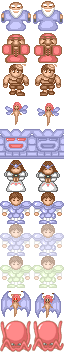
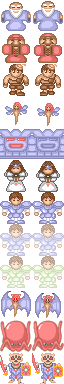
add skeletonknight npc for 10f

diff --git a/project/maps.js b/project/maps.js
@@ -127,6 +127,7 @@ var maps_90f36752_8815_4be8_b32b_d7fad1d0542e =
 	"278": {"cls":"enemys","id":"devilKnight"},
 	"279": {"cls":"enemys","id":"grayPriest"},
 	"300": {"cls":"terrains","id":"ground"},
+	"301": {"cls":"npcs","id":"N301"},
 	"305": {"cls":"terrains","id":"grass"},
 	"308": {"cls":"terrains","id":"grass2"},
 	"311": {"cls":"terrains","id":"ground2"},

diff --git a/project/icons.js b/project/icons.js
@@ -71,7 +71,8 @@ var icons_4665ee12_3a1f_44a4_bea3_0fccba634dc1 =
 		"N1582": 7,
 		"N1583": 8,
 		"N1584": 9,
-		"N1586": 10
+		"N1586": 10,
+		"N301": 11
 	},
 	"npc48": {
 		"npc0": 0,
